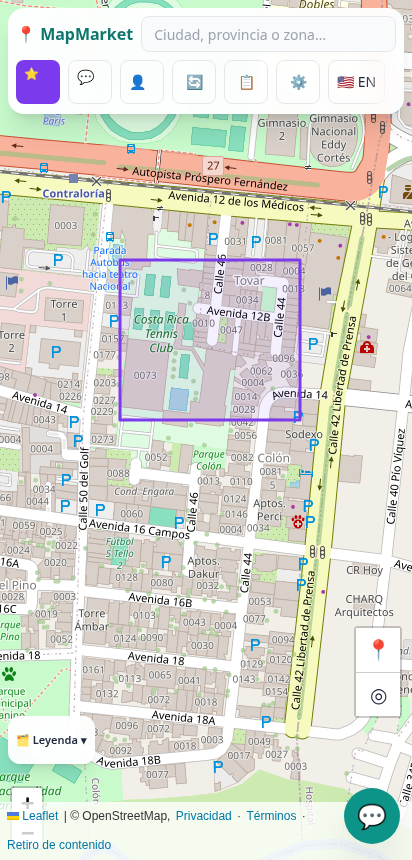
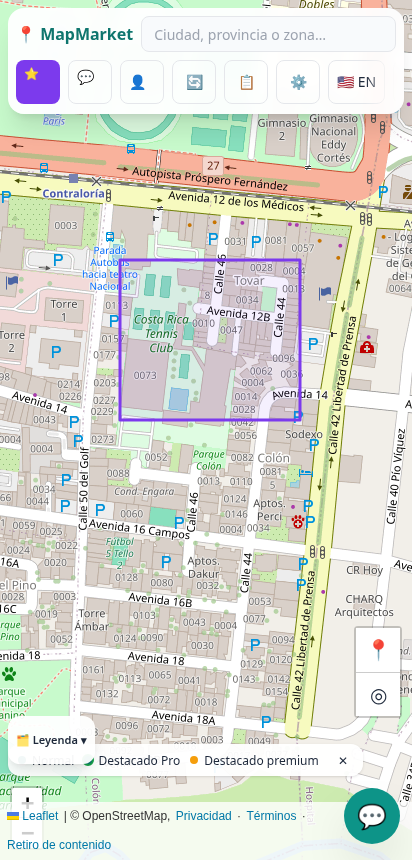
Fix chat (lista en vivo de conversaciones nuevas, títulos), recuperación de contraseña (errores claros, formulario visible), copias locales fantasma de anuncios, Mis anuncios (editar/pausar/reactivar/eliminar/vendido con fecha), 3 niveles de destacado, Contactar por WhatsApp del anunciante, update.p

Changed region(s): [[0.0, 0.8465, 0.7573, 0.907], [0.8155, 0.8767, 0.8738, 0.907]]

diff --git a/cuenta.html b/cuenta.html
@@ -14,13 +14,14 @@ async function render(){const u=await Auth.user();if(!u){location.href='login.ht
  <section class="bg-white dark:bg-slate-800 rounded-2xl shadow p-5"><h2 class="font-bold">❤ Favoritos (${favs.length}${plus?'':' / '+GH_CONFIG.limiteFavoritosGratis})</h2><p class="text-sm opacity-70 mt-1">${favs.length?favs.slice(0,30).join(', '):'Aún no tienes favoritos: toca el corazón en la ficha de una propiedad.'}</p></section>
  <section class="bg-white dark:bg-slate-800 rounded-2xl shadow p-5"><h2 class="font-bold">🔔 Búsquedas guardadas y alertas ${plus?'':'<span class="text-xs bg-violet-100 text-violet-700 rounded-full px-2">🔒 Plus</span>'}</h2>${bus.length?'<ul class="text-sm mt-2 list-disc ml-5">'+bus.map(b=>'<li>'+(b.nombre||'Búsqueda')+(b.alerta?' · alerta activa':'')+'</li>').join('')+'</ul>':'<p class="text-sm opacity-70 mt-1">Ninguna todavía.</p>'}</section>
  <section id="np" class="bg-white dark:bg-slate-800 rounded-2xl shadow p-5 ${location.hash==='#nueva-clave'?'':'hidden'}"><h2 class="font-bold">Nueva contraseña</h2><input id="pw" type="password" minlength="6" class="mt-2 w-full px-3 py-2 rounded-lg border dark:bg-slate-700"><button id="pwB" class="mt-2 bg-teal-600 text-white rounded-lg px-3 py-1.5 text-sm">Guardar</button><p id="pwM" class="text-sm mt-1"></p></section>
- <section class="bg-white dark:bg-slate-800 rounded-2xl shadow p-5"><h2 class="font-bold">🏠 Mis anuncios publicados</h2><div id="misAn" class="text-sm mt-2 opacity-80">${Auth.demo?'No disponible en modo demo.':'Cargando…'}</div></section>${u.rol==='admin'?'<a href="admin.html" class="block text-center bg-slate-800 text-white rounded-xl font-semibold py-3">🛠 Panel de administración</a>':''}
+ <section class="bg-white dark:bg-slate-800 rounded-2xl shadow p-5"><h2 id="mis-anuncios" class="font-bold">🏠 Mis anuncios publicados</h2><div id="misAn" class="text-sm mt-2 opacity-80">${Auth.demo?'No disponible en modo demo.':'Cargando…'}</div></section>${u.rol==='admin'?'<a href="admin.html" class="block text-center bg-slate-800 text-white rounded-xl font-semibold py-3">🛠 Panel de administración</a>':''}
  <section class="bg-white dark:bg-slate-800 rounded-2xl shadow p-5"><h2 class="font-bold">🧾 Historial de pagos</h2><div id="pagos" class="text-sm mt-2 opacity-80">${Auth.demo?'No disponible en modo demo.':'Cargando…'}</div><p class="text-xs opacity-60 mt-2">Los pagos los procesa ONVO Pay; MapMarket no guarda datos de tu tarjeta. ¿Dudas? <a class="underline" href="mailto:pcalifax@gmail.com">pcalifax@gmail.com</a></p></section>
  <button id="out" class="w-full border border-red-500 text-red-600 rounded-xl font-semibold" style="min-height:44px">Cerrar sesión</button>
  <section class="rounded-2xl border border-red-300 dark:border-red-800 p-5"><h2 class="font-bold text-red-600">Eliminar mi cuenta</h2><p class="text-sm mt-1 opacity-80">Borra definitivamente tu cuenta, perfil, favoritos, listas, alertas, votos y mensajes, y cancela tu suscripción. No se puede deshacer. También puedes pedirlo por correo a pcalifax@gmail.com (ver <a class="underline" href="eliminar-cuenta.html">cómo eliminar tu cuenta</a>).</p>
  <label class="block text-sm mt-3">Escribe <b>ELIMINAR</b> para confirmar<input id="delC" autocomplete="off" class="mt-1 w-full h-11 px-3 rounded-lg border dark:bg-slate-700 dark:border-slate-600"></label><button id="delB" class="mt-2 bg-red-600 text-white rounded-lg px-4 font-semibold disabled:opacity-40" style="min-height:44px" disabled>Eliminar cuenta definitivamente</button><p id="delM" role="status" class="text-sm mt-2"></p></section>`;
  extras(u);
  if($('trial'))$('trial').onclick=async()=>{try{await Auth.startTrial();render()}catch(e){alert(e.message)}};$('out').onclick=async()=>{await Auth.signOut();location.href='index.html'};if($('down'))$('down').onclick=async()=>{await Auth.setDemoPlan('gratis');render()};
+ if(location.hash==='#nueva-clave')setTimeout(()=>{const n=$('np');if(n){n.classList.add('ring-4','ring-teal-500');n.parentNode.prepend(n);n.scrollIntoView({block:'center'});$('pw').focus()}},300);
  $('pwB').onclick=async()=>{try{$('pwM').textContent=await Auth.updatePassword($('pw').value)}catch(e){$('pwM').textContent=e.message}}}
 async function fnCuenta(body){const c=await Auth.client();const {data,error}=await c.functions.invoke('cuenta',{body});if(error){let m=error.message;try{m=(await error.context.json()).error||m}catch(e){}throw new Error(m)}return data}
 async function extras(u){
@@ -28,9 +29,11 @@ async function extras(u){
  $('delB').onclick=async()=>{if(!confirm('¿Seguro? Esto borra tu cuenta de MapMarket para siempre.'))return;$('delB').disabled=true;$('delM').textContent='Eliminando…';
   try{if(Auth.demo){localStorage.clear();location.href='index.html';return}await fnCuenta({accion:'eliminar',confirmar:'ELIMINAR'});await Auth.signOut().catch(()=>{});localStorage.removeItem('mm_ultimo_email');alert('Tu cuenta fue eliminada.');location.href='index.html'}catch(e){$('delM').textContent='❌ '+e.message;$('delB').disabled=false}};
  if(Auth.demo)return;
- try{const c=await Auth.client();const {data}=await c.from('anuncios').select('id,titulo,estado,motivo_rechazo,created_at').eq('owner_id',u.id).order('created_at',{ascending:false});const B={pendiente:'🕓 En revisión',aprobado:'✅ Publicado',rechazado:'❌ Rechazado',vendido:'🏷 Vendido',retirado:'🗑 Retirado'};const X=s=>String(s??'').replace(/[&<>"']/g,c=>'&#'+c.charCodeAt(0)+';');
-  $('misAn').innerHTML=(data||[]).length?'<ul class="divide-y dark:divide-slate-700">'+data.map(a=>`<li class="py-2 flex flex-wrap gap-2 items-center"><span class="flex-1">${X(a.titulo)}</span><span class="text-xs">${B[a.estado]||a.estado}${a.motivo_rechazo?' · '+X(a.motivo_rechazo):''}</span>${a.estado==='aprobado'?`<a class="underline text-xs" href="index.html?p=u-${a.id}">ver</a><button data-v="${a.id}" class="mv border rounded px-2 text-xs" style="min-height:36px">Marcar vendido</button>`:''}${a.estado!=='retirado'?`<button data-r="${a.id}" class="mr border border-red-400 text-red-600 rounded px-2 text-xs" style="min-height:36px">Retirar</button>`:''}</li>`).join('')+'</ul>':'Aún no publicas anuncios. Usa «➕ Publicar» en el mapa.';
-  document.querySelectorAll('.mv,.mr').forEach(b=>b.onclick=async()=>{const {error}=await c.from('anuncios').update({estado:b.dataset.v?'vendido':'retirado'}).eq('id',b.dataset.v||b.dataset.r);if(error)alert(error.message);else extras(u)})}catch(e){$('misAn').textContent='No disponible.'}
+ try{const c=await Auth.client();const {data}=await c.from('anuncios').select('id,titulo,estado,motivo_rechazo,created_at,vendido_at').eq('owner_id',u.id).order('created_at',{ascending:false});const B={pausado:'⏸ Pausado',pendiente:'🕓 En revisión',aprobado:'✅ Publicado',rechazado:'❌ Rechazado',vendido:'🏷 Vendido',retirado:'🗑 Retirado'};const X=s=>String(s??'').replace(/[&<>"']/g,c=>'&#'+c.charCodeAt(0)+';');
+  $('misAn').innerHTML=(data||[]).length?'<ul class="divide-y dark:divide-slate-700">'+data.map(a=>`<li class="py-2 flex flex-wrap gap-2 items-center"><span class="flex-1">${X(a.titulo)}</span><span class="text-xs">${B[a.estado]||a.estado}${a.motivo_rechazo?' · '+X(a.motivo_rechazo):''}${a.vendido_at?' · '+new Date(a.vendido_at).toLocaleDateString():''}</span>${a.estado==='aprobado'?`<a class="underline text-xs" href="index.html?p=u-${a.id}">ver</a><button data-v="${a.id}" class="mv border rounded px-2 text-xs" style="min-height:36px">Marcar vendido</button>`:''}${['aprobado','pendiente','rechazado','pausado'].includes(a.estado)?`<a class="border rounded px-2 text-xs grid place-items-center" style="min-height:36px" href="index.html?editar=${a.id}">✏ Editar</a>`:''}${a.estado==='aprobado'?`<button data-pz="${a.id}" class="mpz border rounded px-2 text-xs" style="min-height:36px">⏸ Pausar</button>`:''}${a.estado==='pausado'?`<button data-ra="${a.id}" class="mra border rounded px-2 text-xs" style="min-height:36px">▶ Reactivar</button>`:''}<button data-del="${a.id}" class="mdel border border-red-600 bg-red-600 text-white rounded px-2 text-xs" style="min-height:36px">🗑 Eliminar</button>${a.estado!=='retirado'?`<button data-r="${a.id}" class="mr border border-red-400 text-red-600 rounded px-2 text-xs" style="min-height:36px">Retirar</button>`:''}</li>`).join('')+'</ul>':'Aún no publicas anuncios. Usa «➕ Publicar» en el mapa.';
+  document.querySelectorAll('.mpz,.mra').forEach(b=>b.onclick=async()=>{const {error}=await c.from('anuncios').update({estado:b.dataset.pz?'pausado':'aprobado'}).eq('id',b.dataset.pz||b.dataset.ra);if(error)alert(error.message);else extras(u)});
+  document.querySelectorAll('.mdel').forEach(b=>b.onclick=async()=>{if(!confirm('¿Eliminar este anuncio definitivamente? Se borran también sus fotos. No se puede deshacer.'))return;const {data:an}=await c.from('anuncios').select('imagenes').eq('id',b.dataset.del).maybeSingle();const pref=c.storage.from('anuncios').getPublicUrl('').data.publicUrl.replace(/\/$/,'')+'/';const ps=((an&&an.imagenes)||[]).filter(x=>x.startsWith(pref)).map(x=>decodeURIComponent(x.slice(pref.length)));const {error}=await c.from('anuncios').delete().eq('id',b.dataset.del);if(error)return alert(error.message);if(ps.length)await c.storage.from('anuncios').remove(ps);extras(u)});
+  document.querySelectorAll('.mv,.mr').forEach(b=>b.onclick=async()=>{if(b.dataset.v&&!confirm('¿Marcar como vendido? Se quita del mapa público y queda en tu historial.'))return;const {error}=await c.from('anuncios').update({estado:b.dataset.v?'vendido':'retirado'}).eq('id',b.dataset.v||b.dataset.r);if(error)alert(error.message);else extras(u)})}catch(e){$('misAn').textContent='No disponible.'}
  try{const r=await fnCuenta({accion:'pagos'});const fm=n=>n==null?'':'₡'+Math.round(n>100000?n/100:n).toLocaleString('es-CR');
   const L={'checkout-session.succeeded':'✅ Pago de suscripción','subscription.renewal.succeeded':'🔄 Renovación','subscription.renewal.failed':'⚠ Pago fallido','checkout.created':'🕓 Pago iniciado','subscription.canceled.by_user':'🚫 Suscripción cancelada'};
   $('pagos').innerHTML=r.items.length?'<ul class="divide-y dark:divide-slate-700">'+r.items.map(i=>`<li class="py-1.5 flex gap-2"><span class="flex-1">${L[i.evento]||i.evento}${i.plan?' · '+i.plan:''}</span><span>${fm(i.monto)}</span><span class="opacity-60 text-xs">${new Date(i.fecha).toLocaleDateString('es-CR')}</span></li>`).join('')+'</ul>':'Aún no tienes pagos.';

diff --git a/js/editar.js b/js/editar.js
@@ -1,0 +1,67 @@
+/* MapMarket · editar mi anuncio (index.html?editar=<id>): todos los campos, fotos, ubicación y terreno dibujado.
+   Cualquier cambio de contenido vuelve a revisión (lo fuerza el servidor: trigger anuncios_guardia). */
+(function () {
+  const id = new URLSearchParams(location.search).get('editar'); if (!id) return;
+  const T = s => (window.MMT ? MMT(s) : s), $ = x => document.getElementById(x);
+  const E = s => String(s ?? '').replace(/[&<>"']/g, c => ({ '&': '&amp;', '<': '&lt;', '>': '&gt;', '"': '&quot;', "'": '&#39;' }[c]));
+  const PROV = ['San José', 'Alajuela', 'Cartago', 'Heredia', 'Guanacaste', 'Puntarenas', 'Limón'];
+  window.addEventListener('mm-feat-ready', () => setTimeout(abrir, 400));
+  let a, c, map, pin, capa, nuevas = [];
+  async function abrir() {
+    try {
+      const u = await Auth.user(); if (!u) return location.href = 'login.html?next=' + encodeURIComponent('index.html?editar=' + id);
+      c = await Auth.client(); map = MapController.map;
+      const r = await c.from('anuncios').select('*').eq('id', id).maybeSingle(); a = r.data;
+      if (!a || (a.owner_id !== u.id && u.rol !== 'admin')) return alert(T('No encontramos ese anuncio o no es tuyo.'));
+      if (a.lat) { map.setView([a.lat, a.lon], 17); marcar() } form();
+    } catch (e) { alert(e.message) }
+  }
+  const marcar = () => { if (pin) map.removeLayer(pin); pin = L.marker([a.lat, a.lon], { draggable: true }).addTo(map); pin.on('dragend', () => { const l = pin.getLatLng(); a.lat = +l.lat.toFixed(6); a.lon = +l.lng.toFixed(6); upd() });
+    if (capa) map.removeLayer(capa); capa = a.poligono ? L.polygon(MMDibujo.fromGeo(a.poligono), { color: '#e11d48', weight: 3, fillOpacity: .1 }).addTo(map) : null };
+  const upd = () => { const el = $('eLoc'); if (el) el.textContent = `${a.lat}, ${a.lon}` + (a.area_terreno ? ` · ${MMDibujo.fmtA(a.area_terreno)}` : '') };
+  const tipos = () => typeof EMO !== 'undefined' ? Object.keys(EMO) : ['Casa', 'Apartamento', 'Lote/Terreno', 'Comercio', 'Finca'];
+  const amen = () => typeof AMEN_LBL !== 'undefined' ? Object.keys(AMEN_LBL) : [];
+  function form() {
+    const F = (k, l, t = 'text', v = a[k]) => `<label class="block text-sm">${T(l)}<input id="e_${k}" type="${t}" value="${E(v ?? '')}" class="w-full mt-1 px-2 rounded border dark:bg-slate-700 dark:border-slate-600" style="min-height:44px"></label>`;
+    const S = (k, l, ops) => `<label class="block text-sm">${T(l)}<select id="e_${k}" class="w-full mt-1 px-2 rounded border dark:bg-slate-700 dark:border-slate-600" style="min-height:44px">${ops.map(o => `<option ${o === a[k] ? 'selected' : ''} value="${E(o)}">${T(o)}</option>`).join('')}</select></label>`;
+    UI.modal(`<h2 class="text-xl font-bold pr-6">✏ ${T('Editar anuncio')}</h2>
+      <p class="text-xs mt-1 rounded-lg bg-amber-50 dark:bg-amber-950 p-2">${T('Al guardar cambios de contenido, el anuncio vuelve a revisión antes de mostrarse de nuevo.')}</p>
+      <div class="grid grid-cols-2 gap-2 mt-3"><div class="col-span-2">${F('titulo', 'Título *')}</div>${S('tipo', 'Tipo', tipos())}${S('provincia', 'Provincia', PROV)}${F('precio', 'Precio *', 'number')}${S('moneda', 'Moneda', ['USD', 'CRC'])}${F('habitaciones', 'Habitaciones', 'number')}${F('banos', 'Baños', 'number')}${F('area', 'Área construida (m²)', 'number')}${F('zona', 'Zona / barrio')}</div>
+      <label class="block text-sm mt-2">${T('Descripción')}<textarea id="e_descripcion" maxlength="2000" rows="4" class="w-full mt-1 p-2 rounded border dark:bg-slate-700 dark:border-slate-600">${E(a.descripcion || '')}</textarea></label>
+      ${amen().length ? `<div class="flex flex-wrap gap-1 mt-2">${amen().map(x => `<label class="text-xs border rounded-full px-2 py-0.5 dark:border-slate-600"><input type="checkbox" class="eAm" value="${x}" ${(a.amenidades || []).includes(x) ? 'checked' : ''}> ${AMEN_LBL[x]}</label>`).join('')}</div>` : ''}
+      <h3 class="font-semibold mt-3">📷 ${T('Fotos')}</h3><div id="eFotos" class="flex flex-wrap gap-2 mt-1"></div>
+      <input id="eAdd" type="file" accept="image/*" multiple class="mt-2 text-sm"><p class="text-xs opacity-70">${T('Máximo 6 fotos. Las nuevas pasan por moderación.')}</p>
+      <h3 class="font-semibold mt-3">📍 ${T('Ubicación y terreno')}</h3><p class="text-xs opacity-80">${T('Arrastra el pin en el mapa, pega coordenadas o un enlace de Google Maps, o dibuja el terreno.')}</p><div id="eLoc" class="text-xs font-mono mt-1"></div>
+      <div class="flex gap-2 mt-1"><input id="eCoord" placeholder="${T('Pegar coordenadas o enlace de Google Maps')}" class="flex-1 px-2 rounded border dark:bg-slate-700 dark:border-slate-600" style="min-height:44px"><button id="eCoordB" class="rounded-lg border px-3" style="min-height:44px">${T('Usar')}</button></div>
+      <div class="flex flex-wrap gap-2 mt-2"><button id="eDraw" class="rounded-lg border px-3" style="min-height:44px">✏ ${T('Dibujar terreno')}</button>${a.poligono ? `<button id="eNoPoly" class="rounded-lg border px-3 text-red-600" style="min-height:44px">✖ ${T('Quitar terreno')}</button>` : ''}<button id="eMap" class="rounded-lg border px-3" style="min-height:44px">🗺 ${T('Ver en el mapa')}</button></div>
+      <div class="flex gap-2 mt-4"><button id="eSave" class="flex-1 rounded-xl bg-teal-600 text-white font-semibold" style="min-height:48px">💾 ${T('Guardar cambios')}</button><a href="cuenta.html#mis-anuncios" class="rounded-xl border px-4 grid place-items-center" style="min-height:48px">${T('Cancelar')}</a></div><p id="eMsg" class="text-sm mt-2"></p>`);
+    fotos(); upd();
+    $('eAdd').onchange = e => { nuevas = [...nuevas, ...e.target.files].slice(0, Math.max(0, 6 - (a.imagenes || []).length)); fotos() };
+    $('eCoordB').onclick = async () => { const r = await MMDibujo.parseCoords($('eCoord').value); if (!r || r.error) return alert(T((r && r.error) || 'No reconocimos esas coordenadas.')); a.lat = r.lat; a.lon = r.lon; marcar(); map.setView([a.lat, a.lon], 17); upd() };
+    $('eDraw').onclick = () => { leer(); UI.close(); MMDibujo.dibujar(map, a.poligono ? MMDibujo.fromGeo(a.poligono) : [], v => { if (v && v.length >= 3) { a.poligono = MMDibujo.toGeo(v); a.area_terreno = Math.round(MMDibujo.area(v)) } marcar(); form() }) };
+    if ($('eNoPoly')) $('eNoPoly').onclick = () => { leer(); a.poligono = null; a.area_terreno = null; marcar(); form() };
+    $('eMap').onclick = () => { leer(); UI.close(); const b = document.createElement('button'); b.className = 'fixed z-[1600] bottom-4 left-1/2 -translate-x-1/2 rounded-xl bg-teal-600 text-white px-4 shadow-xl'; b.style.minHeight = '48px'; b.textContent = '↩ ' + T('Volver al formulario'); b.onclick = () => { b.remove(); form() }; document.body.appendChild(b) };
+    $('eSave').onclick = guardar;
+  }
+  function fotos() {
+    $('eFotos').innerHTML = (a.imagenes || []).map((u, i) => `<div class="relative"><img src="${E(u)}" alt="" class="w-20 h-20 object-cover rounded-lg"><button data-i="${i}" aria-label="${T('Quitar foto')}" class="eQ absolute -top-2 -right-2 w-7 h-7 rounded-full bg-red-600 text-white">✕</button></div>`).join('') + nuevas.map(f => `<div class="w-20 h-20 rounded-lg border-2 border-dashed grid place-items-center text-[10px] text-center p-1">🆕 ${E(f.name.slice(0, 18))}</div>`).join('');
+    document.querySelectorAll('.eQ').forEach(b => b.onclick = () => { leer(); (a._quitar = a._quitar || []).push(a.imagenes[+b.dataset.i]); a.imagenes = a.imagenes.filter((_, i) => i !== +b.dataset.i); fotos() });
+  }
+  function leer() { const v = k => $('e_' + k) ? $('e_' + k).value : a[k], n = k => { const x = v(k); return x === '' || x == null ? null : +x };
+    Object.assign(a, { titulo: String(v('titulo')).trim().slice(0, 140), tipo: v('tipo'), provincia: v('provincia'), precio: +v('precio'), moneda: v('moneda'), habitaciones: n('habitaciones'), banos: n('banos'), area: n('area'), zona: String(v('zona') || '').slice(0, 120) || null, descripcion: String(v('descripcion') || '').slice(0, 2000) || null });
+    if (document.querySelector('.eAm')) a.amenidades = [...document.querySelectorAll('.eAm:checked')].map(x => x.value) }
+  async function guardar() {
+    leer(); const m = t => $('eMsg').textContent = t; if (!a.titulo || !(a.precio > 0)) return m(T('Título y precio son obligatorios.'));
+    try { $('eSave').disabled = true; const urls = [], meta = [];
+      for (const [i, f] of nuevas.entries()) { m(T('Subiendo foto') + ` ${i + 1}/${nuevas.length}…`); const b = await Publicar.shrink(f); const sc = await Publicar.analizar(b); const malo = sc ? (sc.Porn || 0) + (sc.Hentai || 0) : 0;
+        if (malo >= 0.85) throw new Error(T('Una foto parece contenido inapropiado y no se puede publicar.')); const path = `${a.owner_id}/${Date.now()}-${i}.jpg`;
+        const { error } = await c.storage.from('anuncios').upload(path, b, { contentType: 'image/jpeg' }); if (error) throw error; const url = c.storage.from('anuncios').getPublicUrl(path).data.publicUrl; urls.push(url); meta.push({ score: sc, marcar: !!sc && (malo >= 0.5 || (sc.Sexy || 0) >= 0.7) }) }
+      const row = { titulo: a.titulo, tipo: a.tipo, provincia: a.provincia, precio: a.precio, moneda: a.moneda, habitaciones: a.habitaciones, banos: a.banos, area: a.area, zona: a.zona, descripcion: a.descripcion, amenidades: a.amenidades || [], imagenes: [...(a.imagenes || []), ...urls], lat: a.lat, lon: a.lon, poligono: a.poligono || null, area_terreno: a.area_terreno || null };
+      m(T('Guardando…')); const { error } = await c.from('anuncios').update(row).eq('id', a.id); if (error) throw error;
+      if (urls.length) { await c.rpc('registrar_imagenes', { anuncio: a.id, items: urls.map((url, i) => ({ url, ...meta[i] })) }); c.functions.invoke('moderar-imagenes', { body: { anuncio: a.id } }).catch(() => { }) }
+      const pref = c.storage.from('anuncios').getPublicUrl('').data.publicUrl; const quitar = (a._quitar || []).filter(u => u.startsWith(pref)).map(u => decodeURIComponent(u.slice(pref.length).replace(/^\//, '')));
+      if (quitar.length) await c.storage.from('anuncios').remove(quitar);
+      m('✅ ' + T('Cambios guardados. Tu anuncio quedó en revisión.')); setTimeout(() => location.href = 'cuenta.html#mis-anuncios', 1400)
+    } catch (e) { m('⚠ ' + e.message); $('eSave').disabled = false }
+  }
+})();

diff --git a/mensajes.html b/mensajes.html
@@ -17,6 +17,7 @@
 const $=i=>document.getElementById(i),E=s=>String(s??'').replace(/[&<>"']/g,c=>({'&':'&amp;','<':'&lt;','>':'&gt;','"':'&quot;',"'":'&#39;'}[c]));
 let C=null,U=null,convs=[],cur=null,props={},chan=null;const DEMO=location.hash==='#demo';
 const hora=t=>new Date(t).toLocaleString('es-CR',{day:'numeric',month:'short',hour:'2-digit',minute:'2-digit'});
+async function titulos(){const ids=[...new Set(convs.map(c=>c.listing_id).filter(x=>/^u-/.test(x)&&!props[x]).map(x=>x.slice(2)))];if(!ids.length||!C)return;const {data}=await C.from('anuncios').select('id,titulo,imagenes').in('id',ids);(data||[]).forEach(a=>props['u-'+a.id]={title:a.titulo,images:a.imagenes||[]})}
 const title=c=>props[c.listing_id]?.title||('Anuncio '+c.listing_id);
 const otro=c=>c.owner_id==null?(c.user_id===U.id?'MapMarket soporte':'Usuario'):(c.user_id===U.id?'Agente del anuncio':'Interesado');
 const note=t=>{$('note').innerHTML=t;$('note').classList.remove('hidden')};
@@ -51,10 +52,12 @@ $('mReport').onclick=()=>{$('menu').classList.add('hidden');
  if(DEMO){U={id:'yo'};note('👀 Vista de ejemplo con datos ficticios (no se envía nada).');const t=Date.now();convs=[{id:1,listing_id:'anun-54882',user_id:'yo',owner_id:'ag',last_at:new Date(t-6e5).toISOString(),ultimo:'Sí, ¿te sirve el sábado a las 10 a. m.?',unread:1,msgs:[{id:1,sender_id:'yo',texto:'Hola, ¿la casa sigue disponible? Me interesa visitarla este fin de semana.',created_at:new Date(t-36e5).toISOString(),leido:true},{id:2,sender_id:'ag',texto:'¡Hola! Sí, sigue disponible. Tiene escritura al día y plano catastrado.',created_at:new Date(t-3e6).toISOString()},{id:3,sender_id:'ag',texto:'Sí, ¿te sirve el sábado a las 10 a. m.?',created_at:new Date(t-6e5).toISOString()}]},{id:2,listing_id:'32136583',user_id:'yo',owner_id:null,last_at:new Date(t-864e5).toISOString(),ultimo:'Gracias, lo revisamos.',msgs:[{id:4,sender_id:'yo',texto:'Este anuncio parece vendido.',created_at:new Date(t-9e7).toISOString(),leido:true},{id:5,sender_id:'s',texto:'Gracias, lo revisamos.',created_at:new Date(t-864e5).toISOString()}]}];renderList();openConv(1);return}
  U=await Social.me();if(!U){location.href='login.html?next=mensajes.html';return}
  C=await Social.sb();if(!C){note('Los mensajes se activan cuando el administrador ejecute <b>supabase_setup.sql</b> (v4). <a class="underline" href="#demo" onclick="setTimeout(()=>location.reload())">Ver ejemplo</a>');renderList();return}
- const {data,error}=await C.from('conversaciones').select('*').order('last_at',{ascending:false});if(error){note(E(error.message));return}convs=data||[];
+ window.cargarConvs=async()=>{ const {data,error}=await C.from('conversaciones').select('*').order('last_at',{ascending:false});if(error){note(E(error.message));return false}convs=data||[];
  if(convs.length){const ids=convs.map(c=>c.id);const {data:ms}=await C.from('mensajes').select('conversacion_id,texto,sender_id,leido,created_at').in('conversacion_id',ids).order('created_at',{ascending:false}).limit(500);
   (ms||[]).forEach(m=>{const c=convs.find(x=>x.id===m.conversacion_id);if(!c.ultimo)c.ultimo=m.texto;if(!m.leido&&m.sender_id!==U.id)c.unread=(c.unread||0)+1})}
+ await titulos();return true};
+ if(await cargarConvs()===false)return;
  renderList();const q=+new URLSearchParams(location.search).get('c');if(q)openConv(q);
- C.channel('mm-list').on('postgres_changes',{event:'INSERT',schema:'public',table:'mensajes'},p=>{const c=convs.find(x=>x.id===p.new.conversacion_id);if(c){c.ultimo=p.new.texto;c.last_at=p.new.created_at;if(p.new.sender_id!==U.id&&(!cur||cur.id!==c.id))c.unread=(c.unread||0)+1;convs.sort((a,b)=>b.last_at>a.last_at?1:-1);renderList()}}).subscribe();
+ C.channel('mm-list').on('postgres_changes',{event:'INSERT',schema:'public',table:'mensajes'},p=>{const c=convs.find(x=>x.id===p.new.conversacion_id);if(c){c.ultimo=p.new.texto;c.last_at=p.new.created_at;if(p.new.sender_id!==U.id&&(!cur||cur.id!==c.id))c.unread=(c.unread||0)+1;convs.sort((a,b)=>b.last_at>a.last_at?1:-1);renderList()}else cargarConvs().then(renderList)}).subscribe();
 })();
 </script><script src="js/notif.js" defer></script></body></html>

diff --git a/index.html b/index.html
@@ -1,6 +1,6 @@
 <!DOCTYPE html><html lang="es"><head><meta charset="utf-8"><link rel="manifest" href="manifest.webmanifest"><meta name="theme-color" content="#0d9488"><link rel="apple-touch-icon" href="icons/apple-touch-icon.png"><link rel="icon" type="image/png" href="icons/favicon.png"><script>if("serviceWorker" in navigator&&location.protocol==="https:")addEventListener("load",()=>navigator.serviceWorker.register("sw.js").catch(()=>{}))</script><meta name="viewport" content="width=device-width,initial-scale=1,viewport-fit=cover">
 <title>MapMarket · Bienes raíces en Costa Rica</title><meta name="description" content="Busca casas, apartamentos, lotes, remates judiciales y bienes adjudicados de bancos en Costa Rica sobre un mapa: filtros, calculadora de hipoteca, gastos de cierre y alertas."><link rel="canonical" href="https://mapmarketapp.com/"><meta name="robots" content="index,follow"><meta property="og:type" content="website"><meta property="og:site_name" content="MapMarket"><meta property="og:title" content="MapMarket · Propiedades en venta en Costa Rica en un mapa"><meta property="og:description" content="Busca casas, apartamentos, lotes, remates judiciales y bienes adjudicados de bancos en Costa Rica sobre un mapa: filtros, calculadora de hipoteca, gastos de cierre y alertas."><meta property="og:image" content="https://mapmarketapp.com/icons/og.png"><meta property="og:image:width" content="1200"><meta property="og:image:height" content="630"><meta property="og:url" content="https://mapmarketapp.com/index.html"><meta property="og:locale" content="es_CR"><meta name="twitter:card" content="summary_large_image"><meta name="twitter:image" content="https://mapmarketapp.com/icons/og.png">
-<script src="https://cdn.tailwindcss.com"></script><script src="js/config.js"></script><script src="js/auth.js"></script><script src="js/permisos.js"></script><script src="js/mm-extra.js" defer></script><script src="js/features.js" defer></script><script src="js/social.js" defer></script><script src="js/publicar.js" defer></script><script src="js/extras.js" defer></script><script src="js/admin-capa.js" defer></script><script src="js/cerca.js" defer></script><script src="js/admin-gestion.js" defer></script><script src="js/refrescar.js" defer></script><script src="js/planes-app.js" defer></script><script src="js/dibujo.js" defer></script><script>tailwind.config={darkMode:'class'}</script>
+<script src="https://cdn.tailwindcss.com"></script><script src="js/config.js"></script><script src="js/auth.js"></script><script src="js/permisos.js"></script><script src="js/tiers.js" defer></script><script src="js/editar.js" defer></script><script src="js/mm-extra.js" defer></script><script src="js/features.js" defer></script><script src="js/social.js" defer></script><script src="js/publicar.js" defer></script><script src="js/extras.js" defer></script><script src="js/admin-capa.js" defer></script><script src="js/cerca.js" defer></script><script src="js/admin-gestion.js" defer></script><script src="js/refrescar.js" defer></script><script src="js/planes-app.js" defer></script><script src="js/dibujo.js" defer></script><script>tailwind.config={darkMode:'class'}</script>
 <link rel="stylesheet" href="https://unpkg.com/leaflet@1.9.4/dist/leaflet.css"><link rel="stylesheet" href="https://unpkg.com/leaflet.markercluster@1.5.3/dist/MarkerCluster.css"><link rel="stylesheet" href="https://unpkg.com/leaflet-draw@1.0.4/dist/leaflet.draw.css">
 <style>html,body,#map{height:100%;margin:0}
 .pb{background:#0f766e;color:#fff;font:600 11px system-ui,sans-serif;padding:2px 7px;border-radius:10px;white-space:nowrap;box-shadow:0 1px 4px #0007;border:1.5px solid #fff;transform:translate(-50%,-50%);display:inline-block;cursor:pointer}

diff --git a/js/mm-extra.js b/js/mm-extra.js
@@ -23,8 +23,6 @@
       const f = Filters.state; const { error } = await c.rpc('guardar_zona', { p_nombre: n.slice(0, 80), p_geojson: MMDibujo.toGeo(zona), p_filtros: { type: f.type || null, max: isFinite(f.max) ? f.max : null, beds: f.beds || null } }); if (error) throw error;
       toast('✅ ' + T('Zona guardada. Te avisaremos aquí, por push y por correo.')); if (window.MMNotif && Notification && Notification.permission === 'default' && confirm(T('¿Activar notificaciones push en este dispositivo?'))) MMNotif.suscribir().catch(() => { }) } catch (e) { if (e.message !== 'login') alert(e.message) } };
     // Destacado pagado: añadir al conjunto de destacados
-    const marcar = () => { const s = window.Feat && Feat.Dest && Feat.Dest.set; if (!s) return; (App.all || []).forEach(p => { if (p.destacado_until && new Date(p.destacado_until) > new Date()) s.add(String(p.id)) }) };
-    marcar(); setTimeout(marcar, 3000); setTimeout(() => { marcar(); App.refresh && App.refresh() }, 6000);
     // Botones extra en la ficha
     const sc = UI.showCard.bind(UI);
     UI.showCard = p => { sc(p); try { extraCard(p) } catch (e) { } };
@@ -36,6 +34,14 @@
       if (!mio && p.status === 'activa') B('📅 ' + T('Agendar visita'), () => visita(p, id));
       if (mio) { B('★ ' + T('Destacar 7 días · ₡1.990'), () => destacarPago(id)); B('📊 ' + T('Estadísticas'), () => location.href = 'cuenta.html#stats') }
       const host = card.querySelector('.overflow-y-auto') || card; host.appendChild(box);
+      // Contactar: WhatsApp directo del anunciante (si lo hizo público) o chat interno
+      if (!mio) try { const c = await Auth.client(); const { data: pp } = await c.from('perfiles_publicos').select('telefono,whatsapp').eq('id', p.owner_id).maybeSingle();
+        const tel = pp && pp.telefono ? String(pp.telefono).replace(/\D/g, '') : ''; const num = tel.length === 8 ? '506' + tel : tel;
+        const link = 'https://mapmarketapp.com/index.html?p=' + p.id, msg = (window.MMLang === 'en' ? 'Hi! I am interested in your MapMarket listing: ' : '¡Hola! Me interesa tu anuncio en MapMarket: ') + p.title + ' ' + link;
+        card.querySelectorAll('a[href^="https://wa.me"]').forEach(a => {
+          if (num && pp.whatsapp !== false) { a.href = 'https://wa.me/' + num + '?text=' + encodeURIComponent(msg); a.target = '_blank'; a.rel = 'noopener' }
+          else { a.removeAttribute('target'); a.href = '#'; a.onclick = e => { e.preventDefault(); const chat = [...card.querySelectorAll('button')].find(b => /mensaje|message/i.test(b.textContent)); chat ? chat.click() : (location.href = 'mensajes.html') }; a.title = T('El anunciante no comparte WhatsApp: escríbele por el chat de MapMarket'); a.innerHTML = '💬 ' + T('Contactar por chat') }
+        }) } catch (e) { }
     }
     async function visita(p, id) {
       try { await cli() } catch (e) { return }

diff --git a/js/planes-app.js b/js/planes-app.js
@@ -4,10 +4,10 @@
     const D = () => (window.Feat && Feat.Dest && Feat.Dest.set) || new Set();
     // Destacados primero (orden estable: respeta el orden por distancia de «Cerca de mí»)
     const fa = Filters.apply.bind(Filters);
-    Filters.apply = list => { const r = fa(list), s = D(); if (!s.size) return r; return r.map((p, i) => [p, i]).sort((a, b) => (s.has(String(b[0].id)) - s.has(String(a[0].id))) || a[1] - b[1]).map(x => x[0]) };
+    Filters.apply = list => { const r = fa(list); return r.map((p, i) => [p, i, window.MMTier ? MMTier(p) : +D().has(String(p.id))]).sort((a, b) => (b[2] - a[2]) || a[1] - b[1]).map(x => x[0]) };
     // Insignia dorada en la ficha
     const sc = UI.showCard.bind(UI);
-    UI.showCard = p => { sc(p); if (!p || !D().has(String(p.id))) return; const h = document.querySelector('#card h2'); if (!h || h.querySelector('.mmGold')) return; const b = document.createElement('span'); b.className = 'mmGold ml-2 align-middle text-[11px] rounded-full px-2 py-0.5 bg-amber-400 text-amber-950 font-bold'; b.textContent = '★ Destacado'; h.appendChild(b) };
+    UI.showCard = p => { const cd0 = document.getElementById('card'); if (cd0) cd0.style.boxShadow = ''; sc(p); const t = window.MMTier ? MMTier(p) : +D().has(String(p && p.id)); if (!p || !t) return; const h = document.querySelector('#card h2'); if (!h || h.querySelector('.mmGold')) return; const b = document.createElement('span'); b.className = 'mmGold ml-2 align-middle text-[11px] rounded-full px-2 py-0.5 font-bold ' + (t === 2 ? 'bg-amber-400 text-amber-950' : 'bg-green-600 text-white'); b.textContent = t === 2 ? '★ ' + (window.MMT ? MMT('Destacado premium') : 'Destacado premium') : '★ ' + (window.MMT ? MMT('Destacado Pro') : 'Destacado Pro'); h.appendChild(b); const card = document.getElementById('card'); if (card) card.style.boxShadow = t === 2 ? '0 0 0 3px #f59e0b' : '0 0 0 3px #16a34a' };
     // Mensaje claro cuando el servidor rechaza por límite de anuncios
     window.addEventListener('unhandledrejection', e => { const m = String(e.reason && e.reason.message || ''); if (m.includes('LIMITE_ANUNCIOS')) { e.preventDefault(); Plus.upsell('Más anuncios activos') } });
     // CTA de primera visita

diff --git a/sw.js b/sw.js
@@ -2,7 +2,7 @@
    - Nunca intercepta Supabase, Tilopay, WhatsApp ni peticiones que no sean GET.
    - HTML y data/*.json: red primero (datos frescos), caché solo si no hay conexión.
    - Estáticos propios y CDNs (Tailwind, Leaflet, teselas OSM): caché con revalidación. */
-const V = 'mm-v15', SHELL = ['./', 'js/notif.js', 'js/mm-extra.js', 'js/i18n.js', 'data/i18n/en.json', 'data/faq_en.json', 'index.html', 'login.html', 'planes.html', 'cuenta.html', 'confirmar.html', 'guias.html', 'mensajes.html', 'privacidad.html', 'terminos.html', 'offline.html', 'eliminar-cuenta.html', 'admin.html', '404.html', 'js/publicar.js', 'js/extras.js', 'js/admin-capa.js', 'js/cerca.js', 'js/permisos.js', 'js/admin-gestion.js', 'js/refrescar.js', 'js/planes-app.js', 'js/dibujo.js', 'js/datos.js', 'data/cr_division.json', 'js/features.js', 'js/social.js', 'js/config.js', 'js/auth.js', 'manifest.webmanifest', 'icons/icon-192.png'];
+const V = 'mm-v16', SHELL = ['./', 'js/notif.js', 'js/tiers.js', 'js/editar.js', 'js/mm-extra.js', 'js/i18n.js', 'data/i18n/en.json', 'data/faq_en.json', 'index.html', 'login.html', 'planes.html', 'cuenta.html', 'confirmar.html', 'guias.html', 'mensajes.html', 'privacidad.html', 'terminos.html', 'offline.html', 'eliminar-cuenta.html', 'admin.html', '404.html', 'js/publicar.js', 'js/extras.js', 'js/admin-capa.js', 'js/cerca.js', 'js/permisos.js', 'js/admin-gestion.js', 'js/refrescar.js', 'js/planes-app.js', 'js/dibujo.js', 'js/datos.js', 'data/cr_division.json', 'js/features.js', 'js/social.js', 'js/config.js', 'js/auth.js', 'manifest.webmanifest', 'icons/icon-192.png'];
 self.addEventListener('install', e => { e.waitUntil(caches.open(V).then(c => c.addAll(SHELL)).catch(() => {})); self.skipWaiting() });
 self.addEventListener('activate', e => { e.waitUntil(caches.keys().then(k => Promise.all(k.filter(x => x !== V).map(x => caches.delete(x)))).then(() => self.clients.claim())) });
 const NO = /supabase\.co|onvopay|tilopay|wa\.me|whatsapp|nominatim|overpass|api\./i;

diff --git a/js/publicar.js b/js/publicar.js
@@ -63,7 +63,7 @@
           if (!(await Social.me())) { if (confirm('Para publicar en MapMarket necesitas iniciar sesión. ¿Ir ahora? (Tu borrador queda guardado solo en este navegador si cancelas)')) { location.href = 'login.html?next=index.html'; return } }
           else {
             save.disabled = true; const m = t => $('nErr').textContent = t;
-            try { await enviar(d, files, m); Feat.toast('✅ Enviado a revisión. Te avisaremos cuando esté publicado.') }
+            try { await enviar(d, files, m); Feat.toast('✅ Enviado a revisión. Te avisaremos cuando esté publicado.'); UI.draft = {}; UI.close(); return }
             catch (e) { save.disabled = false; m('❌ ' + (e.message || e)); return }
           }
         }
@@ -71,6 +71,9 @@
       };
     };
   }
+  // Antes, al publicar en el servidor también se guardaba una copia local (id local-…) que solo veía el autor y que nadie podía borrar
+  // desde admin. Se eliminan esas copias una sola vez (las publicaciones reales viven en Supabase).
+  try { if (!localStorage.getItem('mm_local_purga1')) { const k = CONFIG.storageKey, l = JSON.parse(localStorage.getItem(k) || '[]'); if (l.length) localStorage.setItem(k, '[]'); localStorage.setItem('mm_local_purga1', '1'); if (l.length) setTimeout(() => { App.all = App.all.filter(p => !String(p.id).startsWith('local-')); App.refresh() }, 500) } } catch (e) { }
   async function cargarAprobados() {
     const c = await backend(); if (!c) return;
     const { data, error } = await c.from('anuncios').select('*').in('estado', ['aprobado', 'vendido']).order('created_at', { ascending: false }).limit(1000);
@@ -83,5 +86,5 @@
   }
   window.MMcargarAprobados = cargarAprobados;
   window.addEventListener('mm-feat-ready', () => { try { patchPublish() } catch (e) { console.warn(e) } cargarAprobados() });
-  window.Publicar = { cargarAprobados, shrink };
+  window.Publicar = { cargarAprobados, shrink, analizar };
 })();

diff --git a/js/tiers.js b/js/tiers.js
@@ -1,0 +1,17 @@
+/* MapMarket · 3 niveles de anuncio: normal (borde blanco) · destacado Pro (verde) · destacado pagado 7 días (dorado) */
+(function () {
+  const T = s => (window.MMT ? MMT(s) : s);
+  window.MMTier = p => { if (!p) return 0; if (p.destacado_until && new Date(p.destacado_until) > new Date()) return 2; const s = window.Feat && Feat.Dest && Feat.Dest.set; return s && s.has(String(p.id)) ? 1 : 0 };
+  const st = document.createElement('style');
+  st.textContent = `.pb.destV{border-color:#16a34a!important;border-width:2.5px;box-shadow:0 0 0 3px #16a34a55,0 2px 6px #0008;font-weight:800}
+  .pb.dest{background:#f59e0b!important;color:#422006!important;border-color:#fff7d6!important;box-shadow:0 0 0 3px #f59e0b77,0 2px 6px #0008}
+  #mmTierLeg{position:fixed;left:8px;bottom:84px;z-index:500;font:12px system-ui,sans-serif}`;
+  document.head.appendChild(st);
+  window.addEventListener('mm-feat-ready', () => {
+    const d = document.createElement('div'); d.id = 'mmTierLeg'; d.className = 'rounded-xl shadow px-2 py-1 bg-white/95 dark:bg-slate-800/95 dark:text-white flex gap-2 items-center';
+    d.innerHTML = `<span class="inline-flex items-center gap-1"><i class="inline-block w-3 h-3 rounded-full bg-teal-700 border-2 border-white"></i>${T('Normal')}</span><span class="inline-flex items-center gap-1"><i class="inline-block w-3 h-3 rounded-full bg-teal-700 border-2 border-green-600"></i>${T('Destacado Pro')}</span><span class="inline-flex items-center gap-1"><i class="inline-block w-3 h-3 rounded-full bg-amber-500 border-2 border-white"></i>${T('Destacado premium')}</span><button aria-label="${T('Cerrar')}" class="ml-1 w-6 h-6">✕</button>`;
+    d.querySelector('button').onclick = () => { d.remove(); localStorage.setItem('mm_tierleg', '0') };
+    if (localStorage.getItem('mm_tierleg') !== '0') document.body.appendChild(d);
+    setTimeout(() => App.refresh && App.refresh(), 2500);
+  });
+})();

diff --git a/js/features.js b/js/features.js
@@ -309,11 +309,11 @@
       // pines
       const rd = MapController.render.bind(MapController);
       MapController.render = function (list) {
-        list = [...list].sort((a, b) => Dest.set.has(String(a.id)) - Dest.set.has(String(b.id)));
+        const TR = p => window.MMTier ? MMTier(p) : (Dest.set.has(String(p.id)) ? 1 : 0); list = [...list].sort((a, b) => TR(a) - TR(b));
         this.cluster.clearLayers(); this.cluster.addLayers(list.map(p => {
           const st = (p.status && p.status !== 'activa') ? 'off' : p.mine ? 'mine' : p.demo ? 'demo' : '';
-          const cls = [st, 't-' + tclass(p), p.coord !== 'exacta' && !p.demo ? 'ap' : '', Dest.set.has(String(p.id)) ? 'dest' : ''].join(' ');
-          const m = L.marker([p.lat, p.lon], { icon: L.divIcon({ className: '', html: `<span class="pb ${cls}">${Dest.set.has(String(p.id)) ? '★ ' : ''}${DataService.short(p)}</span>`, iconSize: [0, 0] }), zIndexOffset: Dest.set.has(String(p.id)) ? 1000 : 0 });
+          const cls = [st, 't-' + tclass(p), p.coord !== 'exacta' && !p.demo ? 'ap' : '', ['', 'destV', 'dest'][TR(p)]].join(' ');
+          const m = L.marker([p.lat, p.lon], { icon: L.divIcon({ className: '', html: `<span class="pb ${cls}">${TR(p) ? '★ ' : ''}${DataService.short(p)}</span>`, iconSize: [0, 0] }), zIndexOffset: TR(p) * 1000 });
           m.on('click', () => UI.showCard(p)); return m;
         }));
       };

diff --git a/js/auth.js b/js/auth.js
@@ -55,7 +55,7 @@
     },
     async resetPassword(email) {
       if (DEMO) return 'Modo demo: no se envía correo de recuperación.';
-      const c = await sbClient(); const { error } = await c.auth.resetPasswordForEmail(email, { redirectTo: cb('recovery', 'cuenta.html#nueva-clave') }); if (error) throw error;
+      const c = await sbClient(); const { error } = await c.auth.resetPasswordForEmail(email, { redirectTo: cb('recovery', 'cuenta.html#nueva-clave') }); if (error) { if (error.status === 429 || /rate limit|security purposes/i.test(error.message)) throw new Error('Se alcanzó el límite de correos por hora. Espera unos minutos e inténtalo de nuevo.'); if (/invalid/i.test(error.message)) throw new Error('Ese correo no es válido.'); throw error }
       return 'Te enviamos un correo para restablecer la contraseña.';
     },
     async resend(email, tipo) {

diff --git a/scripts/update.py b/scripts/update.py
@@ -38,7 +38,7 @@ def save(n, o, compact=False):
 def digest():
     h = hashlib.sha256()
     for n in sorted(os.listdir(os.path.join(ROOT, "data"))):
-        if n != "meta.json": h.update(open(D(n), "rb").read())
+        if n != "meta.json" and os.path.isfile(D(n)): h.update(open(D(n), "rb").read())
     return h.hexdigest()
 
 def http(url, timeout=25):
